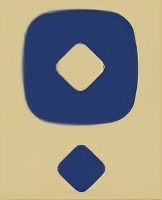
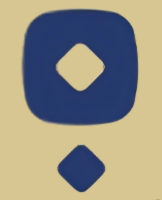
better version

diff --git a/src/style.css b/src/style.css
@@ -1,6 +1,6 @@
 :root {
     --brand-navy: #25396d; 
-    --brand-gold: #bda666; 
+    --brand-gold: #d7c691; 
     --white: #ffffff;
     --h1-size: 24px;
     --h1-lh: 36px;
@@ -35,7 +35,6 @@ body {
     background-repeat: repeat-y;
     background-size: contain;
     animation: slidePattern 20s linear infinite;
-    opacity: 0.8;
 }
 
 .strip-left { left: 0; }
@@ -94,28 +93,43 @@ main {
     font-size: var(--body-reg-size);
     line-height: var(--body-reg-lh);
     font-weight: 500;
-    color: rgba(255, 255, 255, 0.7);
+    color: rgba(255, 255, 255);
     max-width: 550px;
     margin-bottom: 40px;
 }
 
 .btn-cta {
-    background-color: var(--brand-gold);
-    color: var(--brand-navy);
-    padding: 12px 32px;
+    background-color: transparent;
+    color: var(--brand-gold);
+    border: 2px solid var(--brand-gold);
+    
+    padding: 14px 40px;
     font-size: var(--button-size);
     line-height: var(--button-lh);
-    font-weight: 700;
-    border-radius: 4px;
+    font-weight: 600;
     text-decoration: none;
     text-transform: uppercase;
-    letter-spacing: 1px;
-    transition: 0.3s;
+    letter-spacing: 2px;
+    
+    border-radius: 2px;
+    transition: all 0.4s cubic-bezier(0.165, 0.84, 0.44, 1);
+    position: relative;
+    overflow: hidden;
+    z-index: 1;
 }
 
 .btn-cta:hover {
-    background-color: var(--white);
-    transform: translateY(-2px);
+    color: var(--brand-navy);
+    background-color: var(--brand-gold);
+    border-color: var(--brand-gold);
+    transform: translateY(-3px);
+    box-shadow: 0 10px 20px rgba(0, 0, 0, 0.2), 0 0 15px rgba(215, 198, 145, 0.3);
+}
+
+@keyframes buttonPulse {
+    0% { box-shadow: 0 0 0 0 rgba(215, 198, 145, 0.4); }
+    70% { box-shadow: 0 0 0 10px rgba(215, 198, 145, 0); }
+    100% { box-shadow: 0 0 0 0 rgba(215, 198, 145, 0); }
 }
 
 footer {
